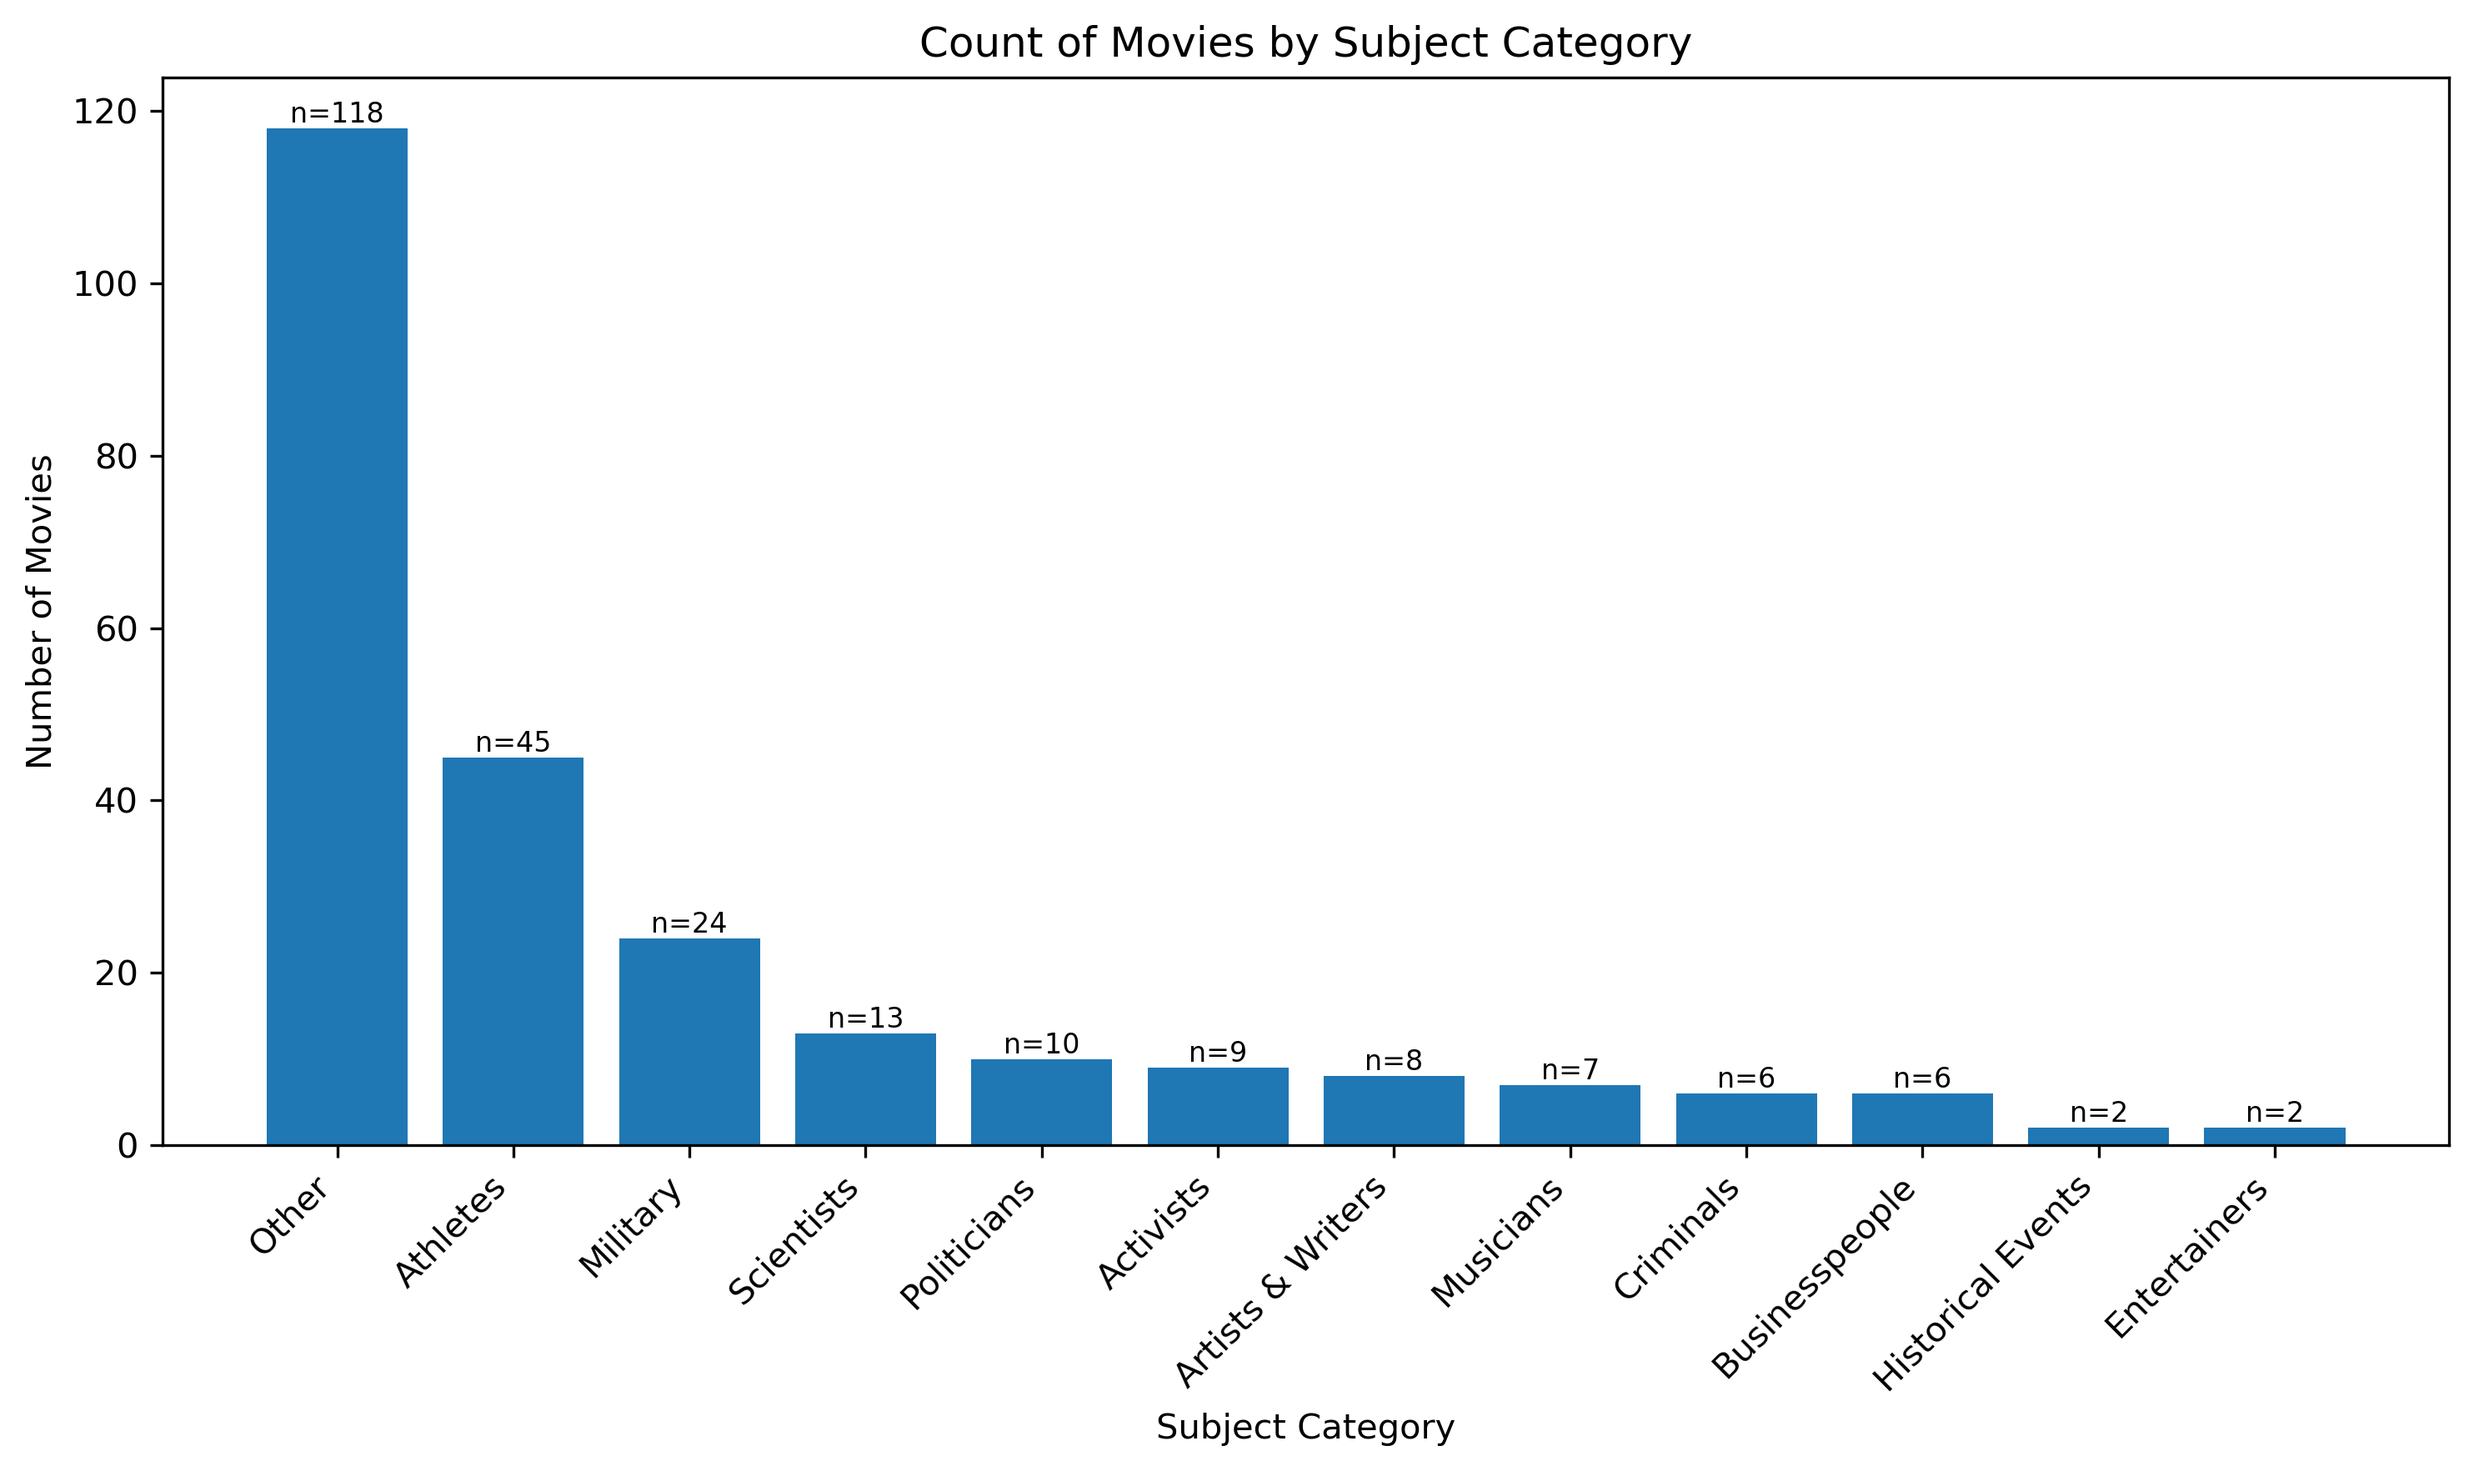
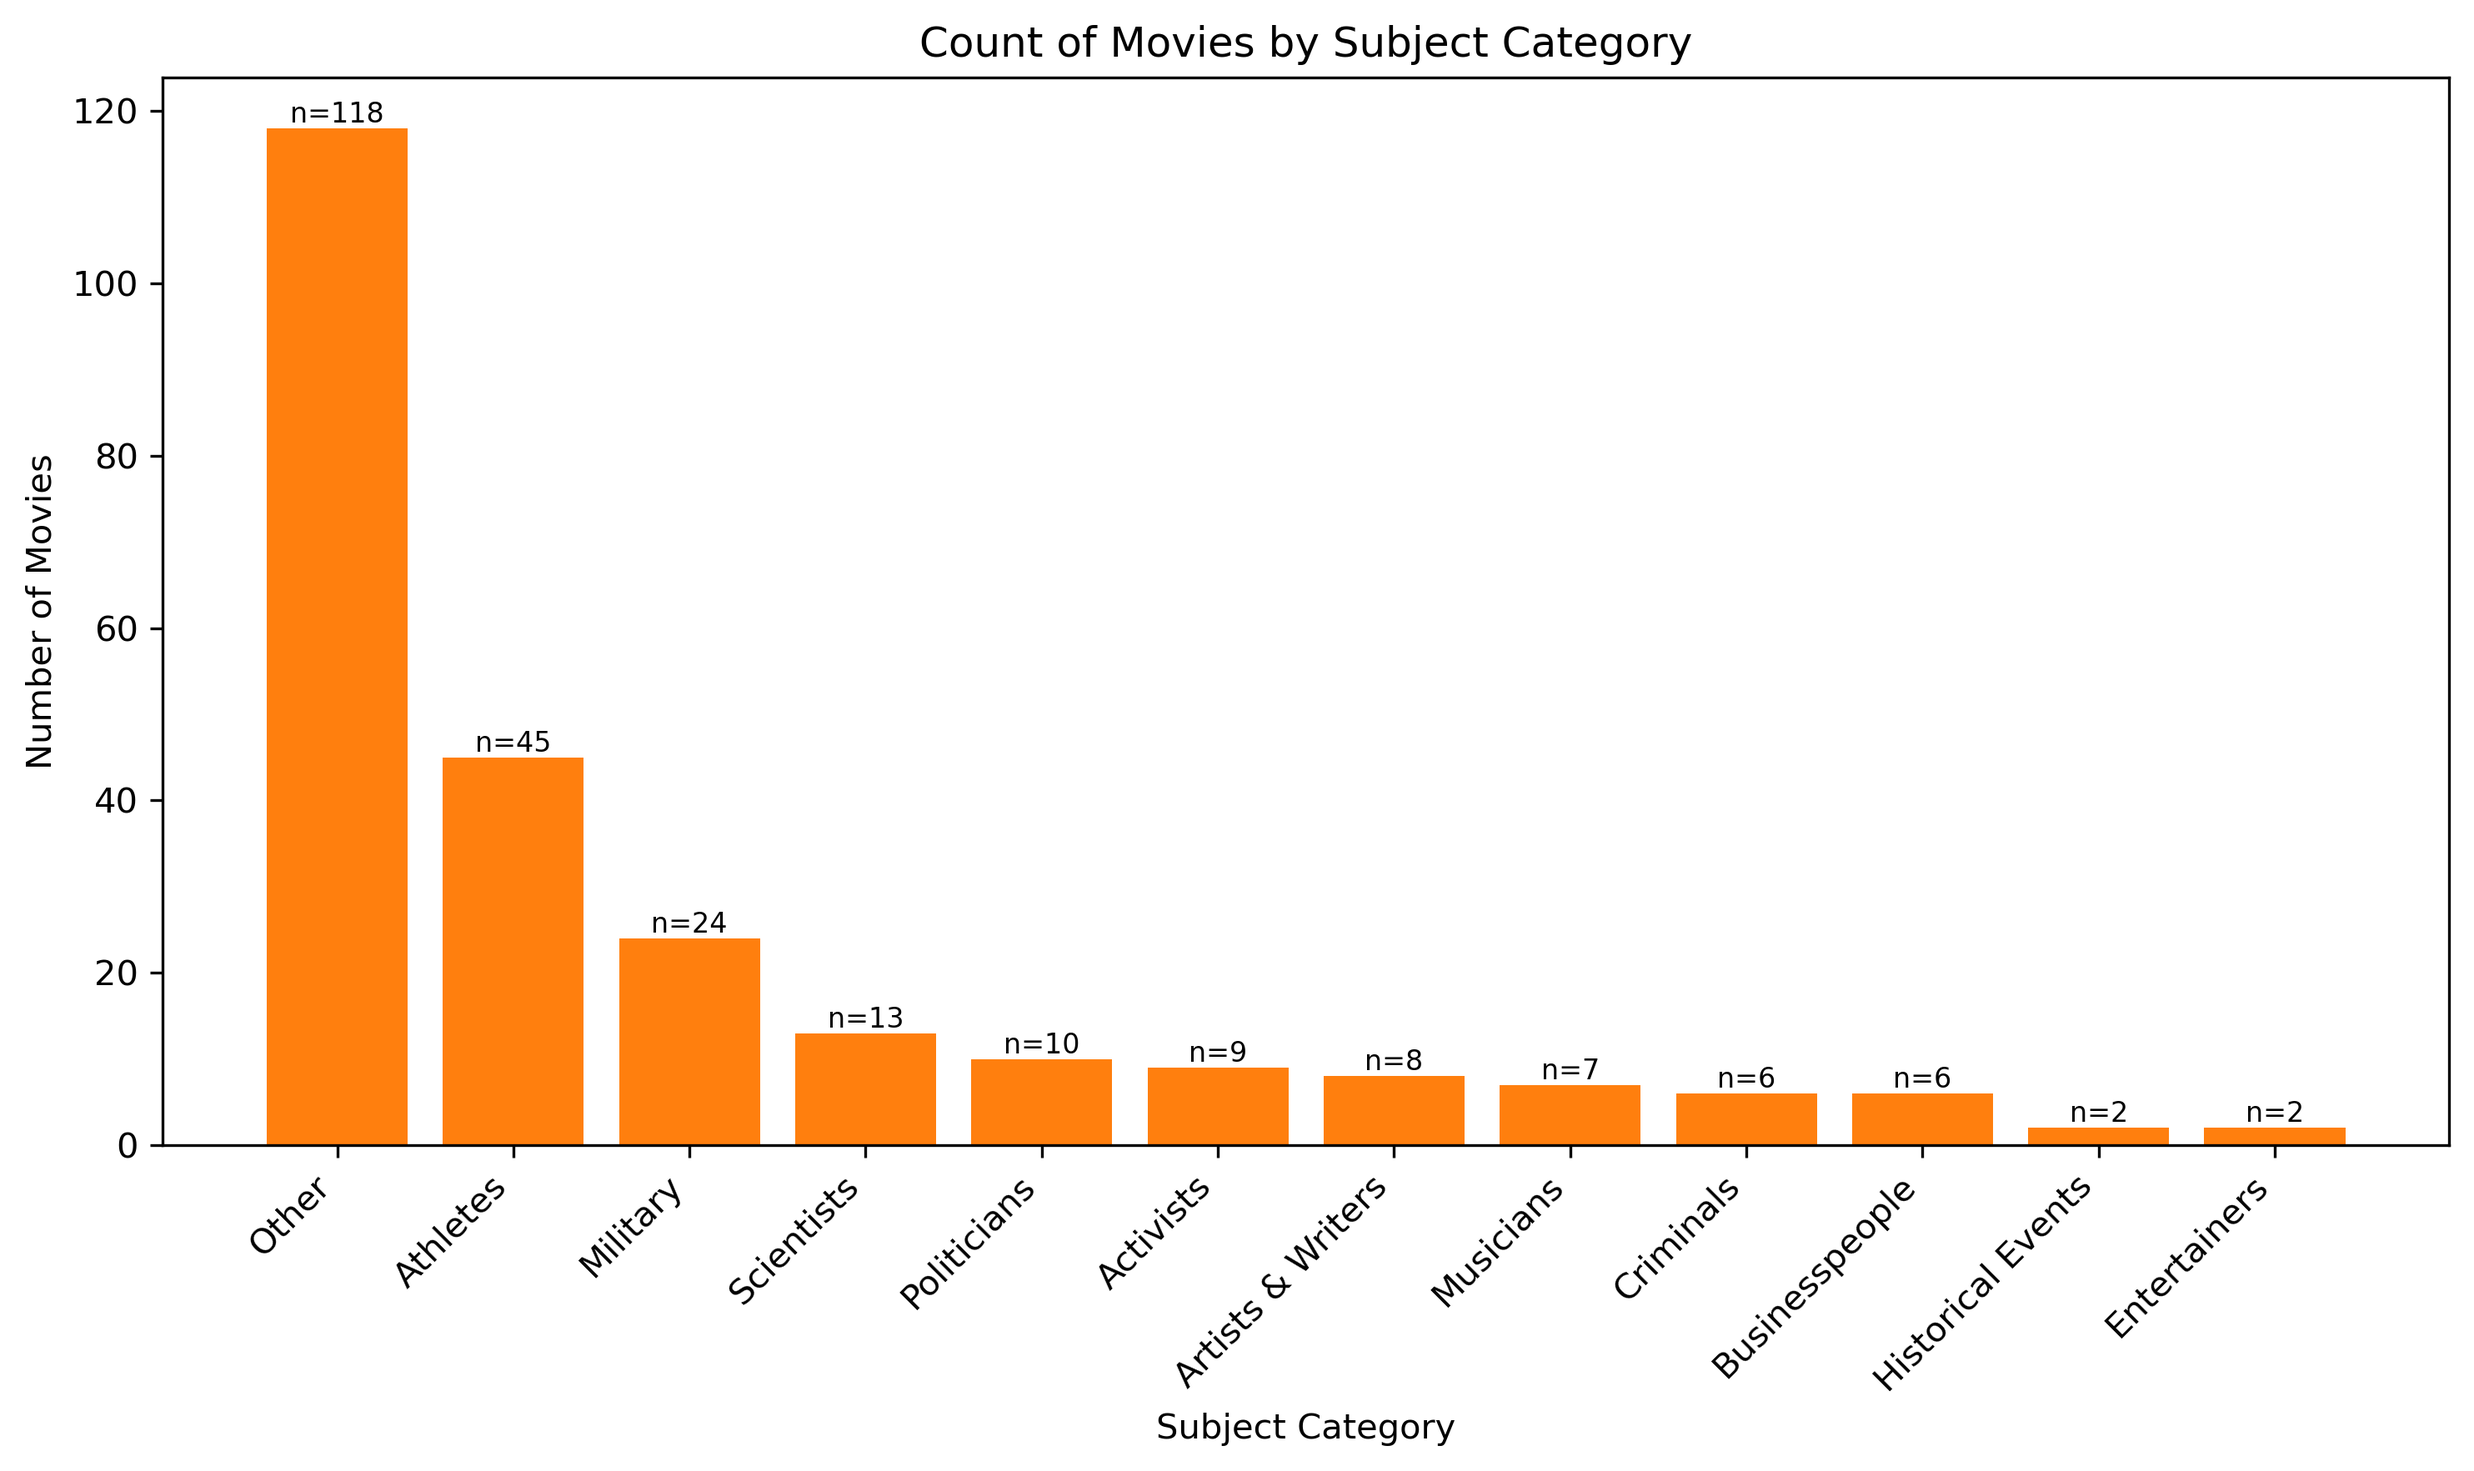
finished

Changed region(s): [[0.093, 0.0623, 0.9609, 0.779]]

diff --git a/visualizations.py b/visualizations.py
@@ -31,7 +31,7 @@ def create_visualization_1(cur):
     counts = [row[1] for row in data]
 
     plt.figure(figsize=(10, 6))
-    bars = plt.bar(categories, counts)
+    bars = plt.bar(categories, counts, color='#ff7f0e')  # Orange color
     plt.xlabel('Subject Category')
     plt.ylabel('Number of Movies')
     plt.title('Count of Movies by Subject Category')
@@ -107,12 +107,15 @@ def create_visualization_2(cur):
     # Create stacked bar chart
     plt.figure(figsize=(12, 7))
 
+    # Use colors excluding default blue
+    colors = ['#ff7f0e', '#2ca02c', '#d62728', '#9467bd', '#8c564b', '#e377c2', '#7f7f7f', '#bcbd22', '#17becf']
+
     x = np.arange(len(sorted_categories))
     width = 0.6
     bottom = np.zeros(len(sorted_categories))
 
-    for genre in top_genre_names:
-        plt.bar(x, data_for_plot[genre], width, label=genre, bottom=bottom)
+    for i, genre in enumerate(top_genre_names):
+        plt.bar(x, data_for_plot[genre], width, label=genre, bottom=bottom, color=colors[i % len(colors)])
         bottom += np.array(data_for_plot[genre])
 
     # Add total count annotations on top of stacked bars
@@ -157,7 +160,7 @@ def create_visualization_3(cur):
     movie_counts = [row[2] for row in data]
 
     plt.figure(figsize=(10, 6))
-    bars = plt.bar(categories, revenues)
+    bars = plt.bar(categories, revenues, color='#2ca02c')  # Green color
     plt.xlabel('Subject Category')
     plt.ylabel('Average Revenue (Millions USD)')
     plt.title('Average Revenue by Subject Category')
@@ -206,7 +209,7 @@ def create_visualization_4(cur):
 
     # Create line plot
     plt.figure(figsize=(12, 7))
-    plt.plot(years, avg_revenues, marker='o', linewidth=2, markersize=6)
+    plt.plot(years, avg_revenues, marker='o', linewidth=2, markersize=6, color='#d62728')  # Red color
 
     plt.xlabel('Release Year')
     plt.ylabel('Average Revenue (Millions USD)')
